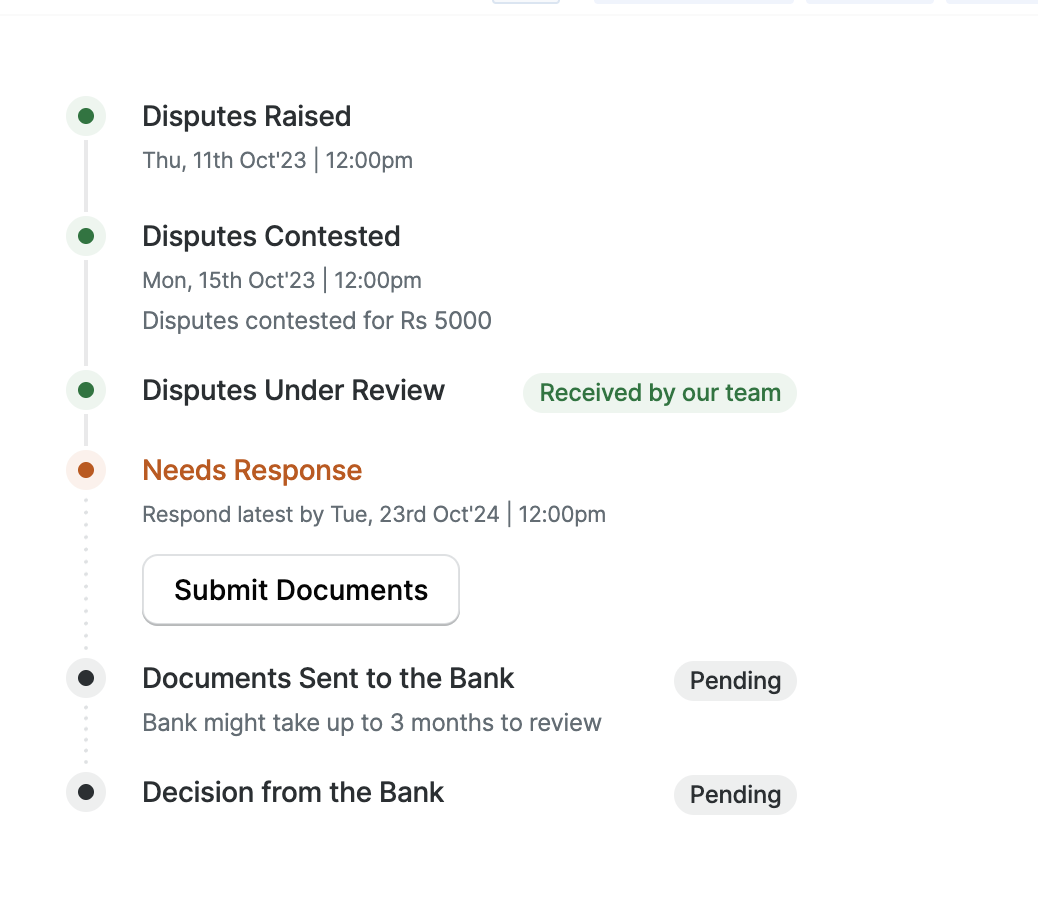
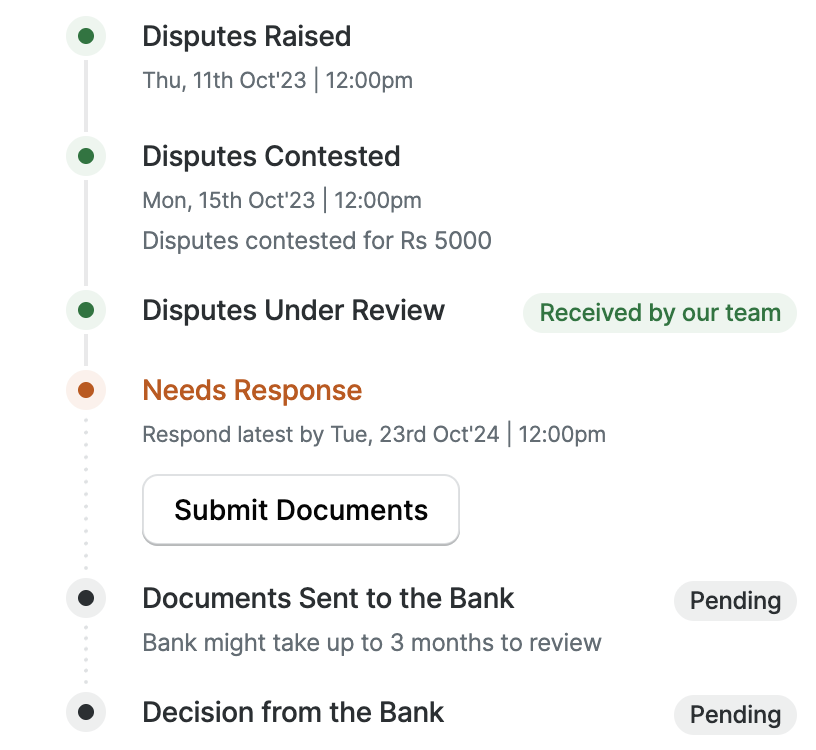
Polish case-study content: bullet style, Blade props/outcomes, Framer subheaders
- Switch list bullets from dashes to dots across all case studies
- Blade: show Item/Group-level props as a 2-card row, crop dead space
  from the dispute-resolution screenshot, update outcome stats, and
  rename "What I learned" to "My learnings"
- Framer: turn the Solution steps into real subheaders, drop the
  border on the outcomes video, update outcome metrics, and add
  breathing room above the outcome cards

diff --git a/app/globals.css b/app/globals.css
@@ -512,6 +512,8 @@ body {
    cascade by source order, instead of silently losing to "type + class". */
 .cs-body :where(h2){font-family:var(--font-geist-sans),sans-serif;font-weight:800;letter-spacing:-.02em;
   font-size:clamp(1.5rem,3.4vw,2.1rem);line-height:1.2;margin:60px 0 16px;}
+.cs-body :where(h3){font-family:var(--font-geist-sans),sans-serif;font-weight:700;letter-spacing:-.01em;
+  font-size:1.2rem;line-height:1.3;color:var(--ink);margin:32px 0 10px;}
 .cs-body :where(p){font-size:1.05rem;line-height:1.65;color:var(--body);margin:0 0 16px;}
 .cs-body strong{font-weight:600;color:var(--ink);}
 .cs-body em{font-style:italic;}
@@ -523,7 +525,7 @@ body {
 .cs-body ul{list-style:none;margin:0 0 18px;padding:0;}
 .cs-body li{position:relative;padding-left:22px;margin-bottom:11px;
   font-size:1.02rem;line-height:1.6;color:var(--body);}
-.cs-body li::before{content:"";position:absolute;left:2px;top:.7em;width:6px;height:1px;background:var(--faint);}
+.cs-body li::before{content:"";position:absolute;left:4px;top:.62em;width:4px;height:4px;border-radius:50%;background:var(--faint);}
 .cs-body blockquote{margin:28px 0;padding:4px 0 4px 22px;border-left:2px solid var(--accent);}
 .cs-body blockquote p{font-family:var(--font-ibm-plex-serif),serif;font-weight:500;font-style:italic;
   font-size:1.25rem;line-height:1.45;color:var(--ink);margin:0;}
@@ -553,6 +555,7 @@ body {
 .cs-fig-img.img-loaded{opacity:1;filter:blur(0);}
 [data-theme="dark"] .cs-fig-img{background:linear-gradient(135deg,#22221D,#191914);}
 .cs-fig-video{display:block;width:100%;border-radius:14px;border:1px solid var(--line);}
+.cs-fig-video-noborder{border:none;border-radius:0;}
 .cs-fig-video-crop-wrap{overflow:hidden;border-radius:14px;border:1px solid var(--line);}
 .cs-fig-video-crop-wrap .cs-fig-video-crop{border:none;border-radius:0;transform:scale(1.035) translateX(-1.5%);}
 
@@ -575,7 +578,7 @@ body {
   font-family:var(--font-geist-mono),monospace;font-size:11px;}
 
 /* outcome cards */
-.cs-outcomes{display:grid;grid-template-columns:1fr 1fr;gap:12px;margin:22px 0;}
+.cs-outcomes{display:grid;grid-template-columns:1fr 1fr;gap:12px;margin:32px 0 22px;}
 .cs-outcome-card{border:1px solid var(--line);border-radius:12px;background:var(--panel);
   padding:20px 22px;display:flex;flex-direction:column;gap:8px;}
 .cs-outcome-stat{font-family:var(--font-geist-sans),sans-serif;font-weight:700;
@@ -587,6 +590,7 @@ body {
 
 /* insight cards */
 .cs-insights{display:grid;grid-template-columns:repeat(3,1fr);gap:12px;margin:22px 0;}
+.cs-insights-2{grid-template-columns:repeat(2,1fr);}
 .cs-insight-card{border:1px solid var(--line);border-radius:12px;background:var(--panel);
   padding:20px 22px;display:flex;flex-direction:column;gap:10px;}
 .cs-insight-title{font-family:var(--font-geist-sans),sans-serif;font-weight:700;

diff --git a/components/case-study/CaseVideo.tsx b/components/case-study/CaseVideo.tsx
@@ -5,14 +5,17 @@ interface Props {
   /* Zooms the video slightly and clips the overflow — hides a stray edge
      artifact baked into the source recording without re-encoding it. */
   crop?: boolean;
+  /* Drops the border/radius chrome — for videos that should sit flush,
+     e.g. framed by their own background rather than the figure chrome. */
+  noBorder?: boolean;
 }
 
 /* Case-study video: muted, autoplay, loop — a product-loop in place of a
    giant GIF. Same figure chrome as CaseImage (border, radius, caption). */
-export function CaseVideo({ src, alt, caption, crop }: Props) {
+export function CaseVideo({ src, alt, caption, crop, noBorder }: Props) {
   const video = (
     <video
-      className={"cs-fig-video" + (crop ? " cs-fig-video-crop" : "")}
+      className={"cs-fig-video" + (crop ? " cs-fig-video-crop" : "") + (noBorder ? " cs-fig-video-noborder" : "")}
       src={src}
       aria-label={alt}
       autoPlay